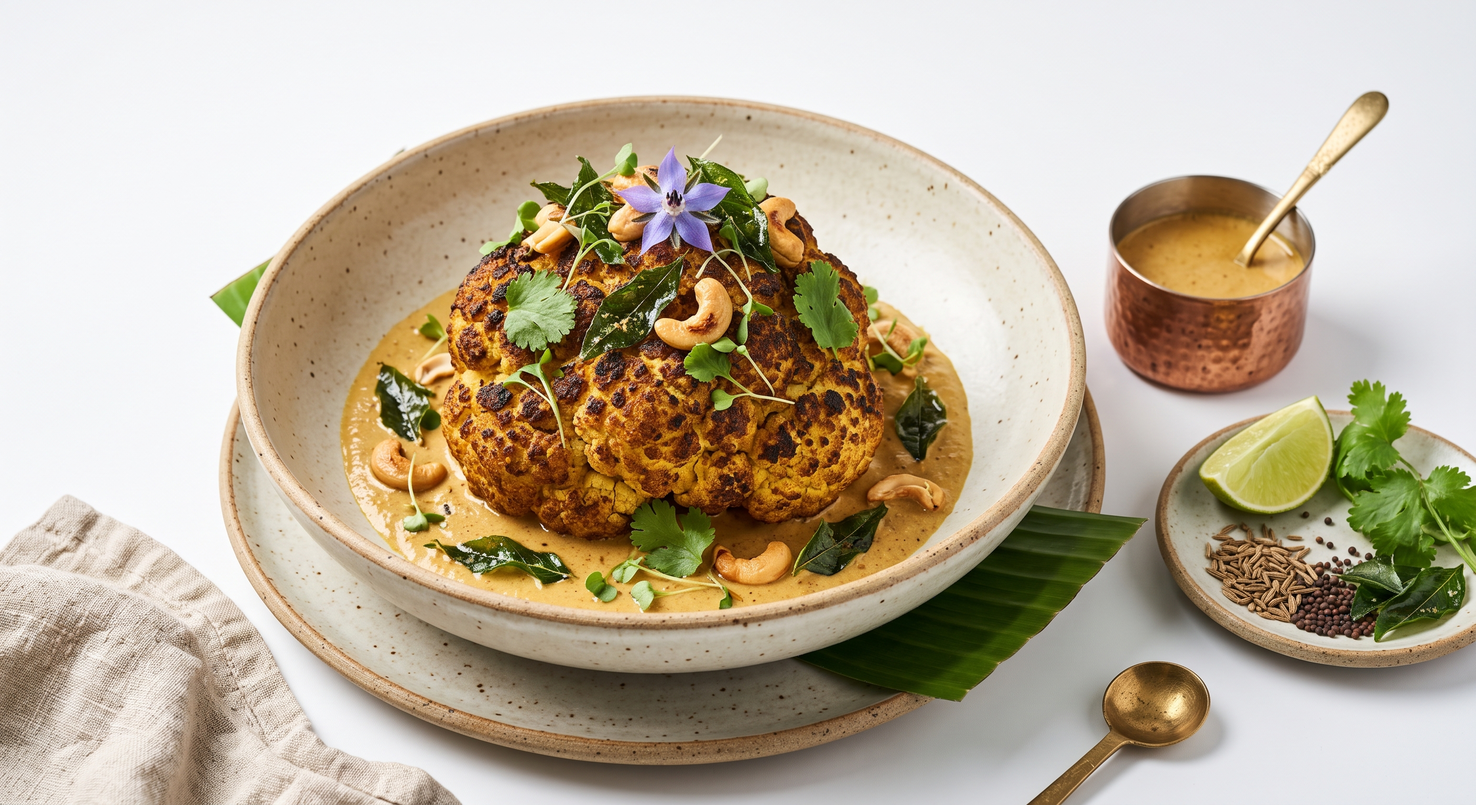
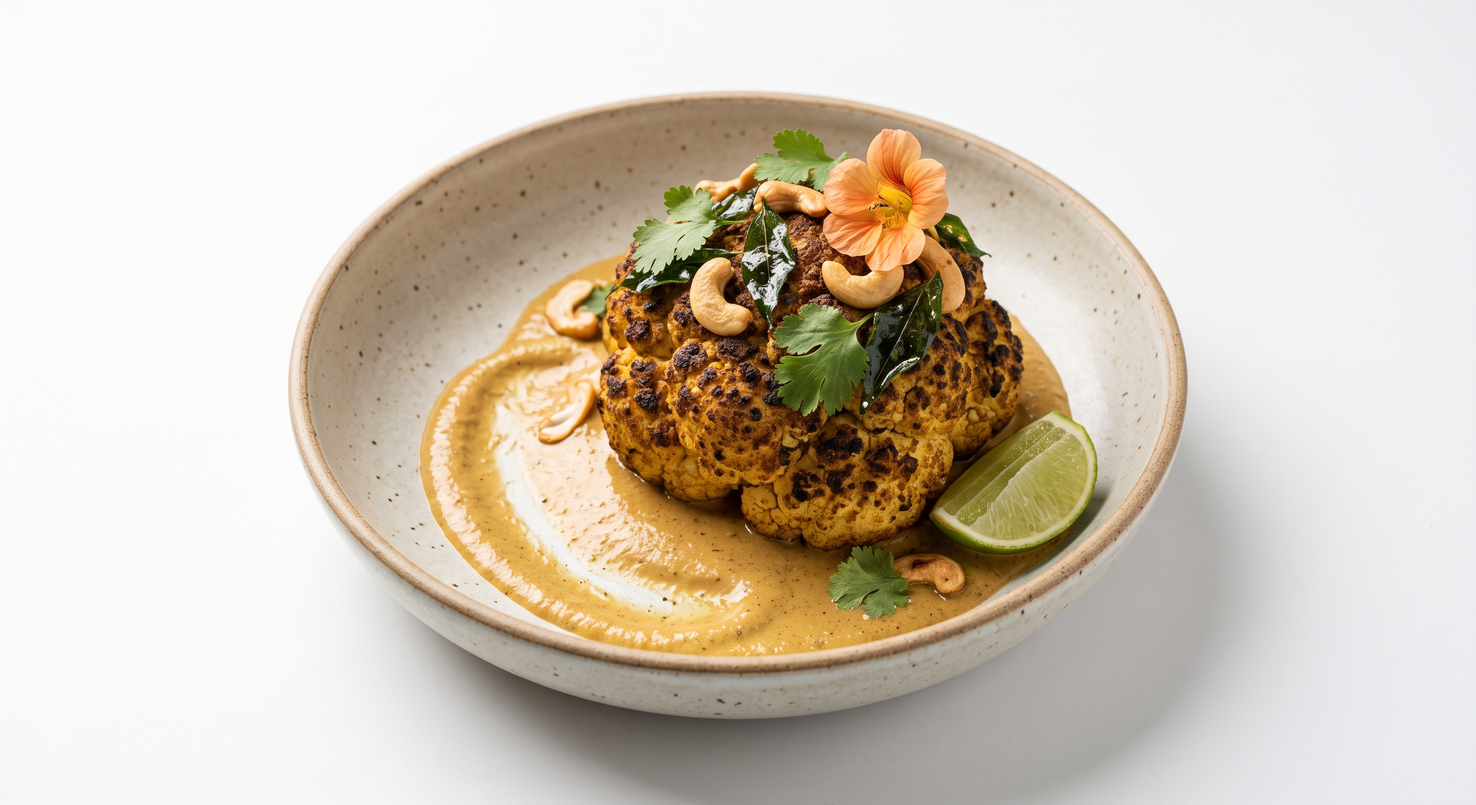
Single-plate premium plating for all 8 dishes, first sample menu page
Pulled composition back onto one plate per dish (no side cups/trays
except pani puri's three waters, which genuinely need separate
vessels) while keeping top-restaurant plating craft. Fixed Aloo Tikki
Chaat to the correct 2-piece portion. Added Malabar Fish Curry and
Hyderabadi Chicken Dum Biryani to round out the working set.

Built generate_page.py implementing the burgundy/gold JSON template
(stacked vertical title, S-curve dish arrangement, gold seals, lotus
line-art) and generated a first sample "BEGINNINGS" page with three
starters to validate the page-level look.

diff --git a/indian-kitchen-menu-photography/build_items.py b/indian-kitchen-menu-photography/build_items.py
@@ -1,31 +1,28 @@
 #!/usr/bin/env python3
-"""Builds items.json for the Indian Kitchen menu photo shoot (new project,
-separate from The Theater). White studio background for all dish photos so
-they can be cleanly cut out and composited onto the burgundy/gold page
-layouts later. Plating aims for the level of craft seen at top modern
-Indian restaurants (Semma, Bungalow, Dhamaka) — multi-vessel compositions,
-not a single pile of food in one bowl."""
+"""Builds items.json for the Indian Kitchen menu photo shoot. White studio
+background for all dish photos so they can be cleanly cut out and
+composited onto the burgundy/gold page layouts later. Plating is inspired
+by top modern Indian restaurants (Semma, Bungalow, Dhamaka) but stays on
+ONE plate — no side cups/trays except where a dish genuinely requires
+separate vessels (pani puri's waters)."""
 import json
 import re
 
 STYLE_SUFFIX = (
     "Ultra-premium, fine-dining editorial food photography in the style "
     "of top modern Indian restaurants like Semma, Bungalow and Dhamaka — "
-    "thoughtfully composed, multi-component plating with genuine "
-    "restaurant craft, never a single generic pile of food in one bowl. "
-    "Bright, clean white studio background: seamless white backdrop, "
-    "soft directional studio lighting from one side, soft natural "
-    "shadow, elevated three-quarter angle looking down at the full "
-    "composition. Intentional asymmetry in the arrangement, a mix of "
-    "serving vessels where appropriate (small ceramic cups, "
-    "compartmented dip trays, a banana leaf accent), a few deliberate, "
-    "well-placed garnishes (fresh microgreens, one or two edible "
-    "flowers, toasted nuts) that read as chef styling, not scattered "
-    "decoration. Sauces and chutneys look vivid and freshly made. "
-    "Photorealistic, shot on a full-frame camera, ultra-detailed, "
-    "natural food texture, 2K quality. No text, no logos, no hands, no "
-    "watermark, no restaurant background of any kind — pure white "
-    "studio only."
+    "thoughtful, confident plating, everything composed on the ONE plate "
+    "(no side cups, no extra dishes, no props scattered around it) with "
+    "intentional asymmetry, sauce swooshed or pooled with a spoon, height "
+    "and texture contrast, a few deliberate garnishes (fresh herbs, one "
+    "or two edible flowers, toasted nuts) placed like a chef would place "
+    "them, never scattered randomly. Bright, clean white studio "
+    "background: seamless white backdrop, soft directional studio "
+    "lighting from one side, soft natural shadow, elevated three-quarter "
+    "angle looking down at the plate. Photorealistic, shot on a "
+    "full-frame camera, ultra-detailed, natural food texture, 2K "
+    "quality. No text, no logos, no hands, no watermark, no restaurant "
+    "background of any kind — pure white studio only."
 )
 
 PLATEWARE = {
@@ -47,7 +44,13 @@ PLATEWARE = {
     ),
     "clay_biryani_pot": (
         "Served in a traditional dark clay handi pot with a thick "
-        "dough-sealed rim, the lid propped open beside it."
+        "dough-sealed rim, the lid propped open beside it, resting on a "
+        "dark wooden board."
+    ),
+    "earthy_curry_plate": (
+        "Presented on a wide, shallow, matte speckled stoneware plate in "
+        "a warm earthy tan glaze, the kind of rustic handmade plate used "
+        "for whole-piece fish and curry preparations."
     ),
 }
 
@@ -59,63 +62,72 @@ def slug(name):
     return s.strip("-")
 
 
-def item(name, plateware_key, subject):
+def item(name, price, plateware_key, subject):
     plateware = PLATEWARE[plateware_key]
     prompt = f"A premium editorial food photograph of {name}: {subject} {plateware} {STYLE_SUFFIX}"
-    return {"name": name, "slug": slug(name), "plateware": plateware_key, "prompt": prompt}
+    return {"name": name, "price_k": price, "slug": slug(name), "plateware": plateware_key, "prompt": prompt}
 
 
 items = [
     item(
-        "Charred Sweet Potato & Chickpea Salad",
-        "speckled_pale_bowl",
+        "Charred Sweet Potato & Chickpea Salad", 155, "speckled_pale_bowl",
         "Thick roasted sweet potato wedges with deeply charred edges, tossed with crispy roasted chickpeas, "
-        "dolloped with swirls of thick yogurt and a glossy dark tamarind-date glaze, finished with a scatter "
-        "of toasted cashews and bright pomegranate arils for pops of color, a small copper cup of extra "
-        "tamarind-date chutney set beside the bowl, a few fresh micro herbs and one or two edible flowers, "
-        "plated with confident intentional asymmetry rather than centered.",
+        "toasted cashews and bright pomegranate arils, swooshed thick yogurt across the base of the bowl "
+        "with a spoon, a dark glossy tamarind-date glaze drizzled over the top, finished with a few fresh "
+        "mint and coriander leaves and one edible flower, plated with confident intentional asymmetry.",
     ),
     item(
-        "Spiced Lamb Keema Samosas",
-        "speckled_charcoal_plate",
+        "Spiced Lamb Keema Samosas", 165, "speckled_charcoal_plate",
         "Two large golden-fried triangular samosas with a crisp blistered shell, one cut open to reveal a "
-        "rich spiced minced lamb filling studded with peas, served alongside a small three-compartment "
-        "ceramic dip tray holding tamarind chutney, mint-coriander chutney and quick-pickled red onion, "
-        "garnished with a few coriander microgreens and one edible flower.",
+        "rich spiced minced lamb filling studded with peas, resting over a swooshed pool of vivid green "
+        "mint-coriander chutney and a small drizzle of tamarind chutney directly on the same plate, finished "
+        "with a few coriander microgreens and one edible flower — everything on the one plate, no side bowls.",
     ),
     item(
-        "Aloo Tikki Chaat",
-        "speckled_tan_bowl",
-        "Four golden-crusted potato tikki patties nestled in a bed of spiced chickpea curry, generously "
+        "Aloo Tikki Chaat", 145, "speckled_tan_bowl",
+        "Exactly TWO large golden-crusted potato tikki patties set over a bed of spiced chickpea curry, "
         "drizzled with thick yogurt, tangy tamarind chutney and vivid green mint chutney, topped with fine "
-        "crispy sev, finely diced red onion and a scatter of pomegranate arils, a small copper cup of extra "
-        "tamarind chutney set beside the bowl, finished with coriander microgreens and one edible flower.",
+        "crispy sev, finely diced red onion and a scatter of pomegranate arils, finished with coriander "
+        "microgreens and one edible flower, all within the one bowl.",
     ),
     item(
-        "Charred Broccoli, Almond & Herb Cream",
-        "speckled_pale_bowl",
-        "Deeply charred broccoli florets with blistered edges mounded over a smooth pale herb cream, "
-        "scattered with toasted sliced almonds and cashews, a small side cup of sizzling curry-leaf and "
-        "mustard-seed tempering oil to drizzle, finished with a few fresh micro herb leaves and one edible "
-        "flower.",
+        "Charred Broccoli, Almond & Herb Cream", 135, "speckled_pale_bowl",
+        "Deeply charred broccoli florets with blistered edges mounded over a smooth pale herb cream "
+        "swooshed across the plate, scattered with toasted sliced almonds and cashews, a light drizzle of "
+        "sizzling curry-leaf and mustard-seed tempering oil directly over the top, finished with a few fresh "
+        "micro herb leaves and one edible flower.",
     ),
     item(
-        "Whole Roasted Cauliflower, Cashew Curry",
-        "speckled_pale_bowl",
+        "Whole Roasted Cauliflower, Cashew Curry", 175, "speckled_pale_bowl",
         "One whole roasted cauliflower head with a deeply charred golden-brown spiced crust, sitting in a "
-        "pool of rich creamy cashew curry sauce, topped with crisp-fried curry leaves and whole roasted "
-        "cashews, a lime wedge and a small copper cup of extra curry sauce set beside the bowl, finished "
-        "with fresh coriander and one edible flower.",
+        "pool of rich creamy cashew curry sauce on the same plate, topped with crisp-fried curry leaves, "
+        "whole roasted cashews and a wedge of lime tucked beside it, finished with fresh coriander and one "
+        "edible flower.",
     ),
     item(
-        "Pani Puri Flight",
-        "speckled_charcoal_plate",
+        "Pani Puri Flight", 175, "speckled_charcoal_plate",
         "Six crisp round puri shells, each with a small opening on top filled with spiced potato, chickpea "
-        "and a sprig of micro herb, arranged on a fresh banana leaf accent, beside them three small ceramic "
-        "cups each holding a different colored pani — vivid green mint-jaljeera, deep reddish-brown tamarind, "
-        "and pale yellow-green raw mango-coriander — each dotted with a few boondi and a floating mint leaf, "
-        "plus a small three-compartment ceramic tray holding tamarind chutney, mint chutney and finely diced "
-        "onion, finished with a scatter of coriander microgreens and two edible flowers (yellow and purple).",
+        "and a sprig of micro herb, arranged in a tight cluster on the plate beside three small ceramic cups "
+        "(the only vessels this dish needs, since three separate waters cannot be poured together) each "
+        "holding a different colored pani — vivid green mint-jaljeera, deep reddish-brown tamarind, and pale "
+        "yellow-green raw mango-coriander — each dotted with a few boondi and a floating mint leaf, with a "
+        "small quenelle of tamarind chutney, mint chutney and a scatter of finely diced onion placed directly "
+        "on the same plate rather than in a separate tray, finished with coriander microgreens and two "
+        "edible flowers.",
+    ),
+    item(
+        "Malabar Fish Curry, Banana Leaf", 265, "earthy_curry_plate",
+        "One thick, skin-on white fish fillet generously coated in a rich reddish-brown coconut-based "
+        "Malabar spice paste with visible curry leaves pressed into the crust, nestled in a bed of the same "
+        "glossy curry sauce, plated directly on a single fresh banana leaf that lines the plate, finished "
+        "with a scatter of fried curry leaves and one edible flower, gentle wisps of steam rising.",
+    ),
+    item(
+        "Hyderabadi Chicken Dum Biryani", 245, "clay_biryani_pot",
+        "Fragrant saffron and turmeric basmati rice generously layered with tender bone-in chicken pieces, "
+        "topped with golden fried onions, fresh mint and coriander leaves, whole star anise and green "
+        "cardamom pods visible on top, gentle wisps of steam rising, the dough-sealed clay lid propped open "
+        "beside the pot to reveal the biryani inside.",
     ),
 ]
 

diff --git a/indian-kitchen-menu-photography/generate_page.py b/indian-kitchen-menu-photography/generate_page.py
@@ -1,0 +1,160 @@
+#!/usr/bin/env python3
+"""Generates one sample menu page for Indian Kitchen using the burgundy/gold
+template style, compositing dish photos from output/ onto it."""
+import base64
+import json
+import os
+import sys
+import time
+
+import requests
+from PIL import Image
+
+API_KEY = os.environ.get("GEMINI_API_KEY")
+MODEL = "gemini-3.1-flash-image"
+URL = f"https://generativelanguage.googleapis.com/v1beta/models/{MODEL}:generateContent"
+BASE = os.path.dirname(os.path.abspath(__file__))
+OUT = os.path.join(BASE, "output")
+PAGES_OUT = os.path.join(BASE, "pages_output")
+
+
+def load_image_part(path):
+    with open(path, "rb") as f:
+        data = base64.b64encode(f.read()).decode("ascii")
+    return {"inlineData": {"mimeType": "image/png", "data": data}}
+
+
+def call_gemini(prompt, ref_paths, max_retries=5):
+    parts = [load_image_part(p) for p in ref_paths]
+    parts.append({"text": prompt})
+    body = {
+        "contents": [{"parts": parts}],
+        "generationConfig": {
+            "responseModalities": ["TEXT", "IMAGE"],
+            "imageConfig": {"imageSize": "2K", "aspectRatio": "3:4"},
+        },
+    }
+    headers = {"x-goog-api-key": API_KEY, "Content-Type": "application/json"}
+    delay = 2
+    for attempt in range(max_retries):
+        resp = requests.post(URL, headers=headers, json=body, timeout=180)
+        if resp.status_code == 429 or resp.status_code >= 500:
+            time.sleep(delay)
+            delay *= 2
+            continue
+        if resp.status_code != 200:
+            return None, f"HTTP {resp.status_code}: {resp.text[:500]}"
+        data = resp.json()
+        try:
+            for cand in data["candidates"]:
+                for part in cand["content"]["parts"]:
+                    if "inlineData" in part:
+                        return base64.b64decode(part["inlineData"]["data"]), None
+            return None, f"No image part: {json.dumps(data)[:500]}"
+        except (KeyError, IndexError) as e:
+            return None, f"Unexpected response ({e}): {json.dumps(data)[:500]}"
+    return None, "Exhausted retries"
+
+
+PAGE_PROMPT = (
+    "Design a tall vertical portrait print restaurant menu page, full-bleed, "
+    "flat and front-on like a scanned printed page, never a 3D mockup. "
+    "Background: a deep, rich wine-burgundy color with a subtle plaster-like "
+    "matte texture (like tinted concrete, not glossy), one soft light source "
+    "from the upper left creating a gentle warmer burgundy glow in the upper "
+    "left that fades to near-black in the corners, with a fine film-grain "
+    "texture across the whole page for a tactile printed feel. "
+    "The ONLY background graphic: one very large lotus flower drawn as an "
+    "extremely faint, barely-perceptible thin gold outline (no fill), "
+    "bleeding off the bottom-left corner of the page, so subtle it reads as "
+    "texture and never competes with the food or text — do not add any "
+    "other script, lettering, characters, or symbols to the background.\n\n"
+    "Three dishes, each cut out cleanly from its reference photo with no "
+    "background, floating directly on the burgundy: reference photo 1 is "
+    "'Pani Puri Flight', reference photo 2 is 'Spiced Lamb Keema Samosas', "
+    "reference photo 3 is 'Aloo Tikki Chaat' — match each exactly to its "
+    "own text block below, never swap or combine them. Preserve each "
+    "reference photo's exact plating, garnish, side condiments and "
+    "composition precisely as shown — do not simplify, remove, or alter "
+    "any element of the plate; the cutout must look identical to its "
+    "reference, just extracted from its white background. All three plates "
+    "are the same scale as each other, same elevated three-quarter camera "
+    "angle looking down, same key light from the upper left matching the "
+    "page lighting, each casting one soft diffuse elliptical shadow toward "
+    "the lower right. Arrange them in a gentle S-curve down the page rather "
+    "than a straight column: dish 1 (Pani Puri Flight) sits high and to "
+    "the right, bleeding off the right edge of the page; dish 2 (Samosas) "
+    "sits centered-left, bleeding off the left edge; dish 3 (Aloo Tikki "
+    "Chaat) sits low and to the right, bleeding off the right edge. Each "
+    "plate is tilted only a few degrees, never perfectly square, and the "
+    "plates overlap each other's shadow pools slightly for depth.\n\n"
+    "Props: a small scattering of whole spices near the bottom left of the "
+    "page resting directly on the burgundy — one star anise, a few green "
+    "cardamom pods, a few black peppercorns — each with its own tiny "
+    "shadow toward the lower right. No cutlery, no hands, no linen, no "
+    "table surface, no glassware anywhere on the page.\n\n"
+    "Typography: the display type is a refined, high-contrast serif with "
+    "generous letter spacing in a warm antique gold, with a faint engraved "
+    "quality as if pressed into the page. Body copy is an elegant italic "
+    "serif in soft cream. Prices use the same gold serif as the display "
+    "type. Keep the tone restrained and fine-dining, never bold or heavy, "
+    "with plenty of empty burgundy space around every text block.\n\n"
+    "Layout: the word 'BEGINNINGS' (spelled B-E-G-I-N-N-I-N-G-S, ten letters, double N in the middle) set very large in gold, stacked "
+    "vertically down the left edge of the page, one letter directly above "
+    "the next. Beside that stacked title, ONCE only, at the top next to "
+    "the first letter 'B', a short line of small gold text rotated "
+    "vertically reading 'PART ONE' — this text must appear exactly once "
+    "on the entire page, never repeated a second time anywhere else. Each "
+    "of the three dishes has "
+    "its own text block placed on the side of the page opposite its "
+    "plate, containing, top to bottom: a small gold-outlined pill-shaped "
+    "tag, the dish name in the gold display serif, a short thin gold "
+    "hairline rule, the description in cream italic serif, then the price "
+    "in gold serif. Text blocks align to the nearest page edge, with their "
+    "ragged edge facing the food. At the very bottom of the page, centered, "
+    "a single small gold line-icon of a lotus sitting in a bowl, sitting "
+    "in a gap within a thin gold horizontal rule spanning the page width. "
+    "Do not render any full logo lockup, brand name, or tagline at the top "
+    "of the page.\n\n"
+    "On the Samosas plate and the Aloo Tikki Chaat plate only: a small "
+    "circular gold double-ring seal containing one small muted-red "
+    "oil-lamp flame icon, no text of any kind inside or around the ring, "
+    "overlapping the outer rim of the plate at its upper right, half on "
+    "the plate and half on the burgundy, tilted slightly off upright.\n\n"
+    "Render ONLY the following text, exactly as written, nowhere else on "
+    "the page — no other words, numbers, letters, measurements, "
+    "percentages, page numbers, or watermark text of any kind:\n"
+    "Section title: 'BEGINNINGS'\n"
+    "Kicker: 'PART ONE'\n"
+    "Dish 1 — tag 'IK 01', name 'Pani Puri Flight', description 'Six crisp "
+    "puris, spiced potato and chickpea, three chilled waters — mint, "
+    "tamarind, raw mango', price '175K'\n"
+    "Dish 2 — tag 'IK 02', name 'Spiced Lamb Keema Samosas', description "
+    "'Crisp pastry, spiced minced lamb and peas, mint-coriander chutney', "
+    "price '165K'\n"
+    "Dish 3 — tag 'IK 03', name 'Aloo Tikki Chaat', description 'Golden "
+    "potato patties, chickpea curry, yogurt, tamarind and mint chutney', "
+    "price '145K'"
+)
+
+
+def main():
+    os.makedirs(PAGES_OUT, exist_ok=True)
+    refs = [
+        os.path.join(OUT, "pani-puri-flight.png"),
+        os.path.join(OUT, "spiced-lamb-keema-samosas.png"),
+        os.path.join(OUT, "aloo-tikki-chaat.png"),
+    ]
+    img_bytes, err = call_gemini(PAGE_PROMPT, refs)
+    if img_bytes is None:
+        print(f"FAILED: {err}", file=sys.stderr)
+        sys.exit(1)
+    filepath = os.path.join(PAGES_OUT, "beginnings-1.png")
+    with open(filepath, "wb") as f:
+        f.write(img_bytes)
+    with Image.open(filepath) as im:
+        print(f"Saved {filepath} {im.size}")
+
+
+if __name__ == "__main__":
+    main()
